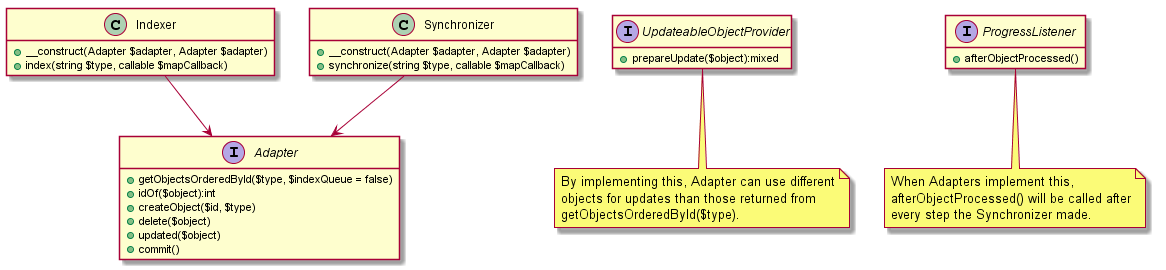
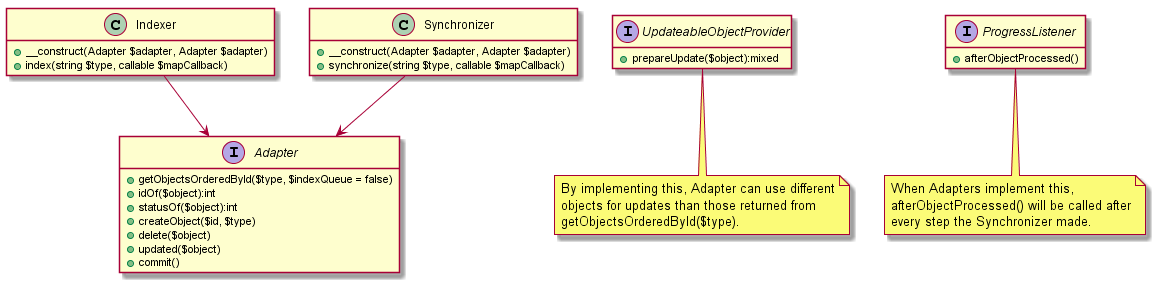
update class-diagram and concept readme

diff --git a/README.md b/README.md
@@ -25,16 +25,16 @@ Concept
 
 ![Class diagram](doc/class-diagram.png)
 
-The content-mapping process is based on four parts: the `Synchronizer`, a ``SourceAdapter``, a ``callable Mapper`` and a
-``DestinationAdapter``. The entry point is ``Synchronizer->synchronize()``: there, the Synchronizer gets an Iterator
-from the ``SourceAdapter->getObjectsOrderedById()`` as well as an Iterator from the
-``DestinationAdapter->getObjectsOrderedById()``, and compares the objects in each one. During the comparison, it deletes
-outdated objects (``DestinationAdapter->delete()``), stores a new objects (``DestinationAdapter->createObject()``) and
-updates existing objects in the destination system (``callable Mapper``).
- 
-``DestinationAdapter->updated()`` and ``DestinationAdapter->commit()`` are only hooks for external change tracking, to
-say an object has been updated or both Iterators have been processed, i.e. changes can be persisted.
+The content-mapping process is based on four parts: the ``Synchronizer`` or ``Indexer``, which needs a ``SourceAdapter``, ``DestinationAdapter`` and a ``Callback Function`` to map the source structure to destination structure.
 
+**Synchronizer**
+The entry point is ``Synchronizer->synchronize()``: there, the process gets an Iterator from the ``SourceAdapter->getObjectsOrderedById()`` as well as an Iterator from the ``DestinationAdapter->getObjectsOrderedById()``, and compares the objects in each one. During the comparison (Synchronizer), it deletes outdated objects (``DestinationAdapter->delete()``), stores new objects (``DestinationAdapter->createObject()``) and updates existing objects in the destination system (``Callback Function``).
+
+**Indexer**
+The entry point is ``Indexer->index()``: there, the process gets an Iterator from the ``SourceAdapter->getObjectsOrderedById()`` and reads the status of each object (``SourceAdapter->statusOf()``). During the indexing, the returned status of the object defines whether the object will be created (``DestinationAdapter->createObject()``), updated (``Callback Function``) or deleted (``DestinationAdapter->delete()``).
+
+**Hooks**
+ ``DestinationAdapter->updated()`` and ``DestinationAdapter->commit()`` are only hooks for external change tracking, to say an object has been updated or both Iterators have been processed, i.e. changes can be persisted.
 
 Usage
 -----
